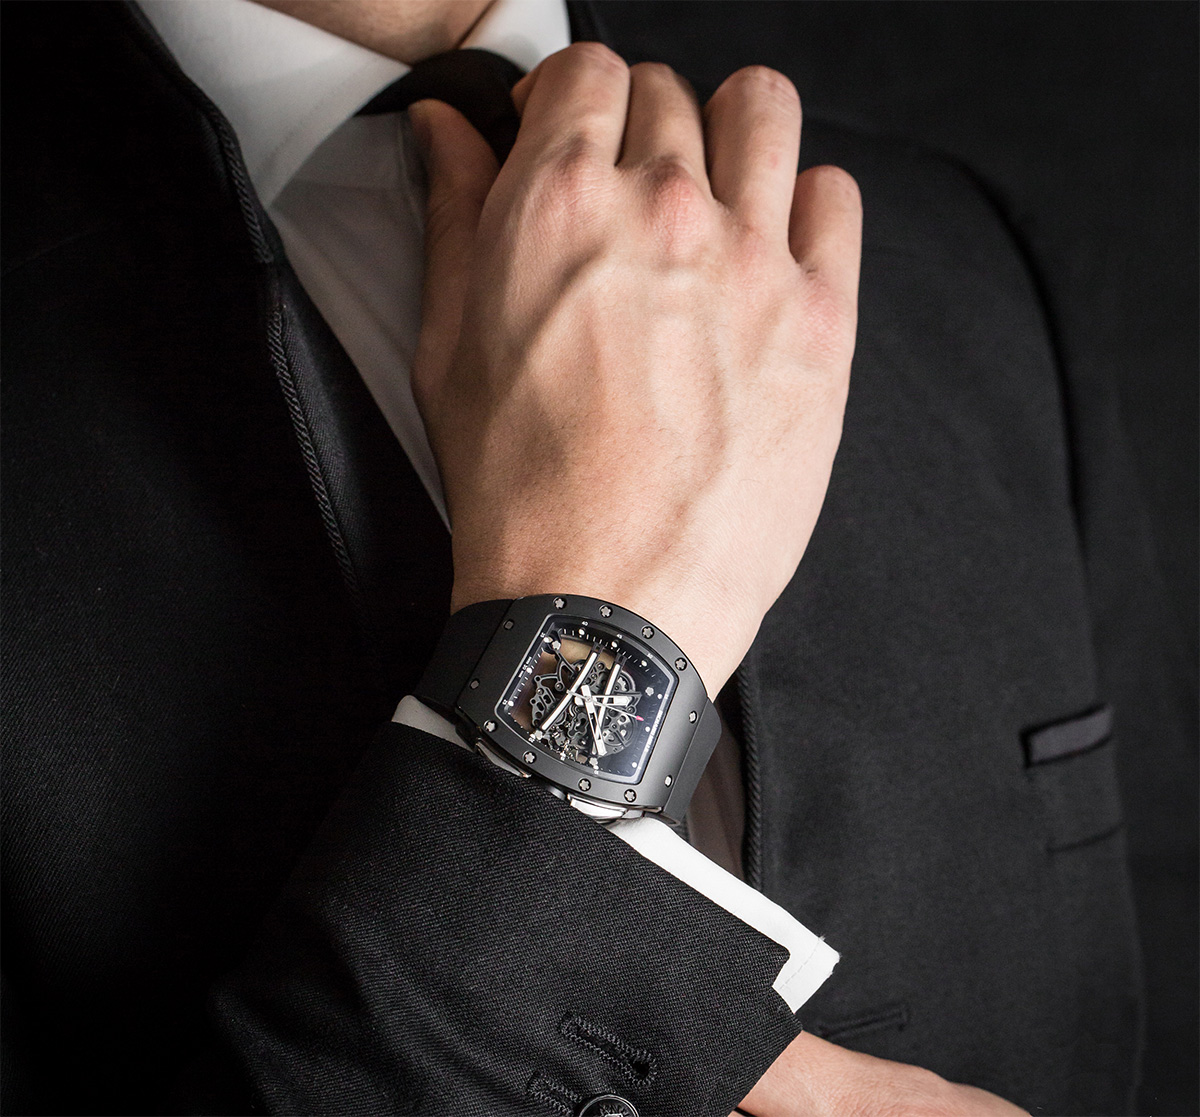
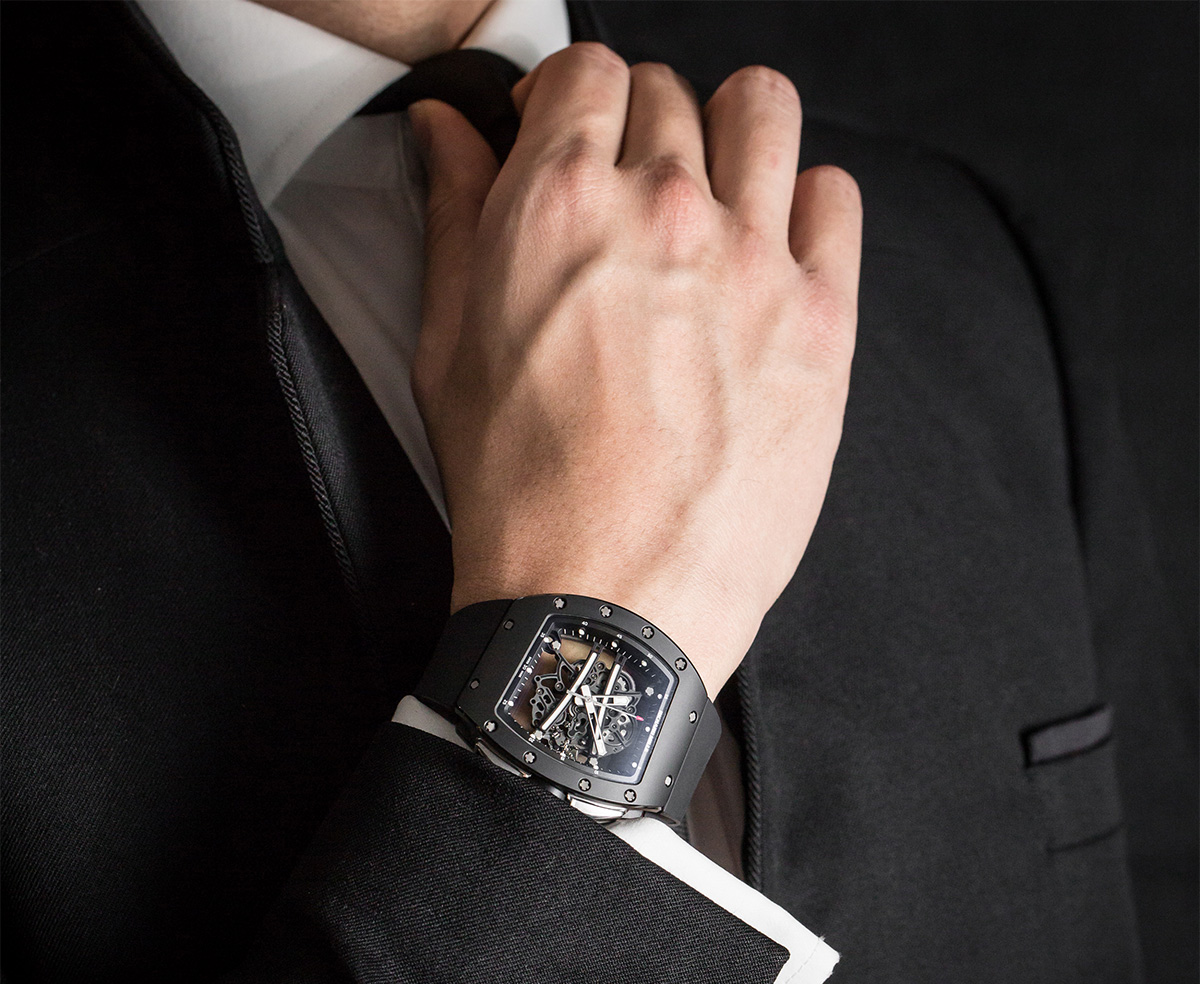
u

diff --git a/brand-landing.html b/brand-landing.html
@@ -188,6 +188,11 @@
                             <img src="assets/images/rm-brand-1.jpg" alt="">
                             
                         </li>
+                         <li data-transition="fade">
+						
+                            <img src="assets/images/rm-brand-2.jpg" alt="">
+                            
+                        </li>
                         <!--<li data-transition="fade">
 						
                             <img src="assets/images/Richard_Mille_02.jpg" alt="">

diff --git a/assets/css/components.css b/assets/css/components.css
@@ -3354,7 +3354,6 @@ fieldset p {
 
 .tp-bgimg {
 	background-position: 0!important;
-	background-size: contain!important;
 }
 
 .fv-form-bootstrap .fv-icon-no-label {
@@ -3501,4 +3500,8 @@ fieldset p {
     margin-top: 85px;
     margin-bottom: -40px!important;
 	position:relative;
+}
+
+.tp-leftarrow.default {
+	display:none;
 }
